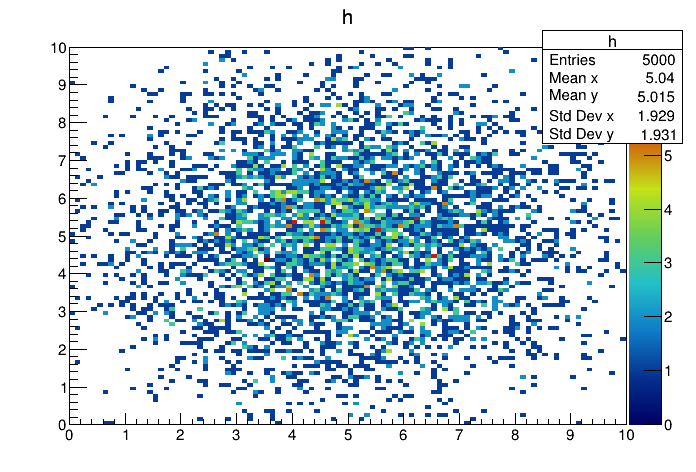
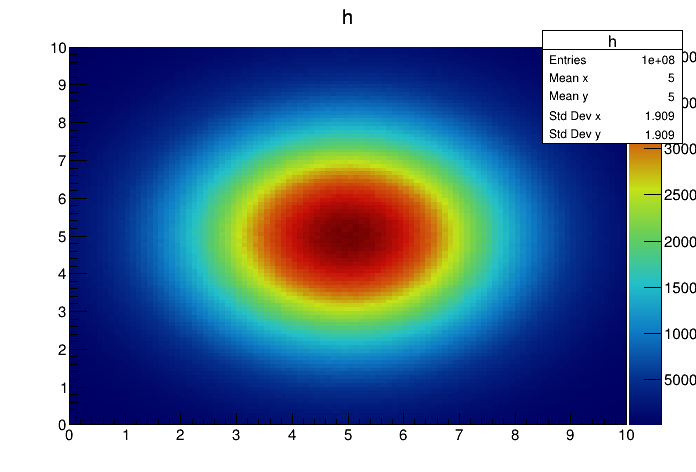
Bilinear test

diff --git a/FluxTest/FluxTest.C b/FluxTest/FluxTest.C
@@ -5,7 +5,7 @@ void FluxTest()
     TH2F *h = new TH2F("h","h",100,0.,10.,100,0.,10.);
     TF2 *xyg = new TF2("xyg","xygaus",0,10,0,10);
     xyg->SetParameters(1,5,2,5,2); //amplitude, meanx,sigmax,meany,sigmay 
-    h->FillRandom("xyg",100*100); 
+    h->FillRandom("xyg",10000*10000); 
     h->Draw();
 
     
